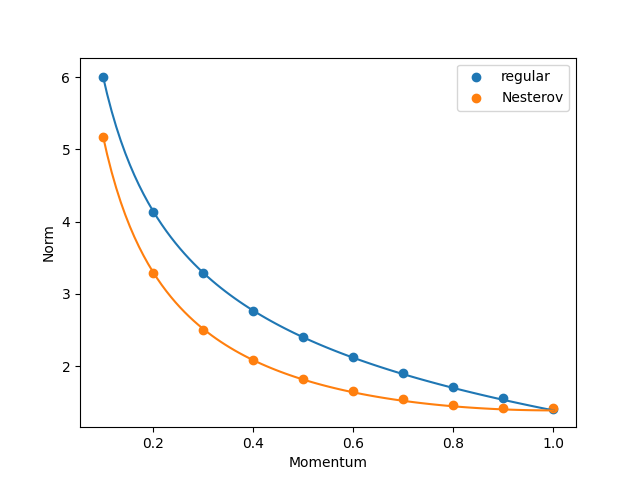
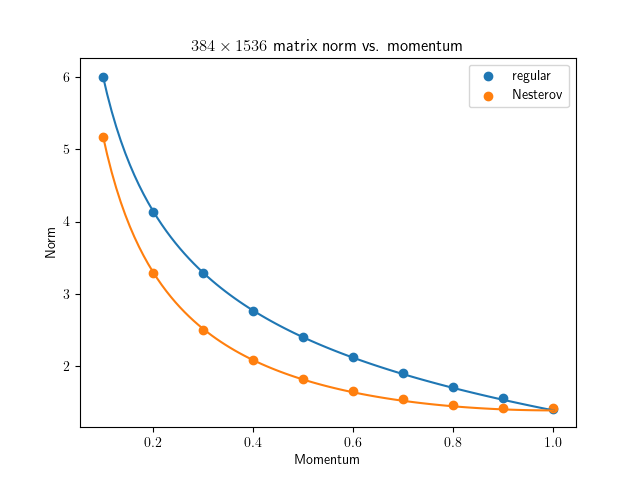
Figure titles

diff --git a/matrix_scion_random_simulation.py b/matrix_scion_random_simulation.py
@@ -8,6 +8,8 @@ import torch
 
 import matplotlib.pyplot as plt
 
+plt.rcParams["text.usetex"] = True
+
 parser = argparse.ArgumentParser(description='Muon / Scion steady-state matrix norm simulation')
 
 parser.add_argument('-m', default=384, type=int)
@@ -95,6 +97,7 @@ def main():
   plt.scatter(momentum, regular, label="regular")
   plt.scatter(momentum, nesterov_mo, label="Nesterov")
 
+  plt.title(f"${args.m} \\times {args.n}$ matrix norm vs. momentum")
   plt.xlabel("Momentum")
   plt.ylabel("Norm")
   plt.legend()

diff --git a/vector_scion_random_simulation.py b/vector_scion_random_simulation.py
@@ -7,6 +7,8 @@ import torch
 
 import matplotlib.pyplot as plt
 
+plt.rcParams["text.usetex"] = True
+
 parser = argparse.ArgumentParser(description='Scion steady-state vector norm simulation')
 
 parser.add_argument('-n', default=1024, type=int)
@@ -62,6 +64,7 @@ def main():
   plt.scatter(momentum, regular, label="regular")
   plt.scatter(momentum, nesterov_mo, label="Nesterov")
 
+  plt.title(f"$n = {args.n}$ vector norm vs. momentum")
   plt.xlabel("Momentum")
   plt.ylabel("Norm")
   plt.legend()
